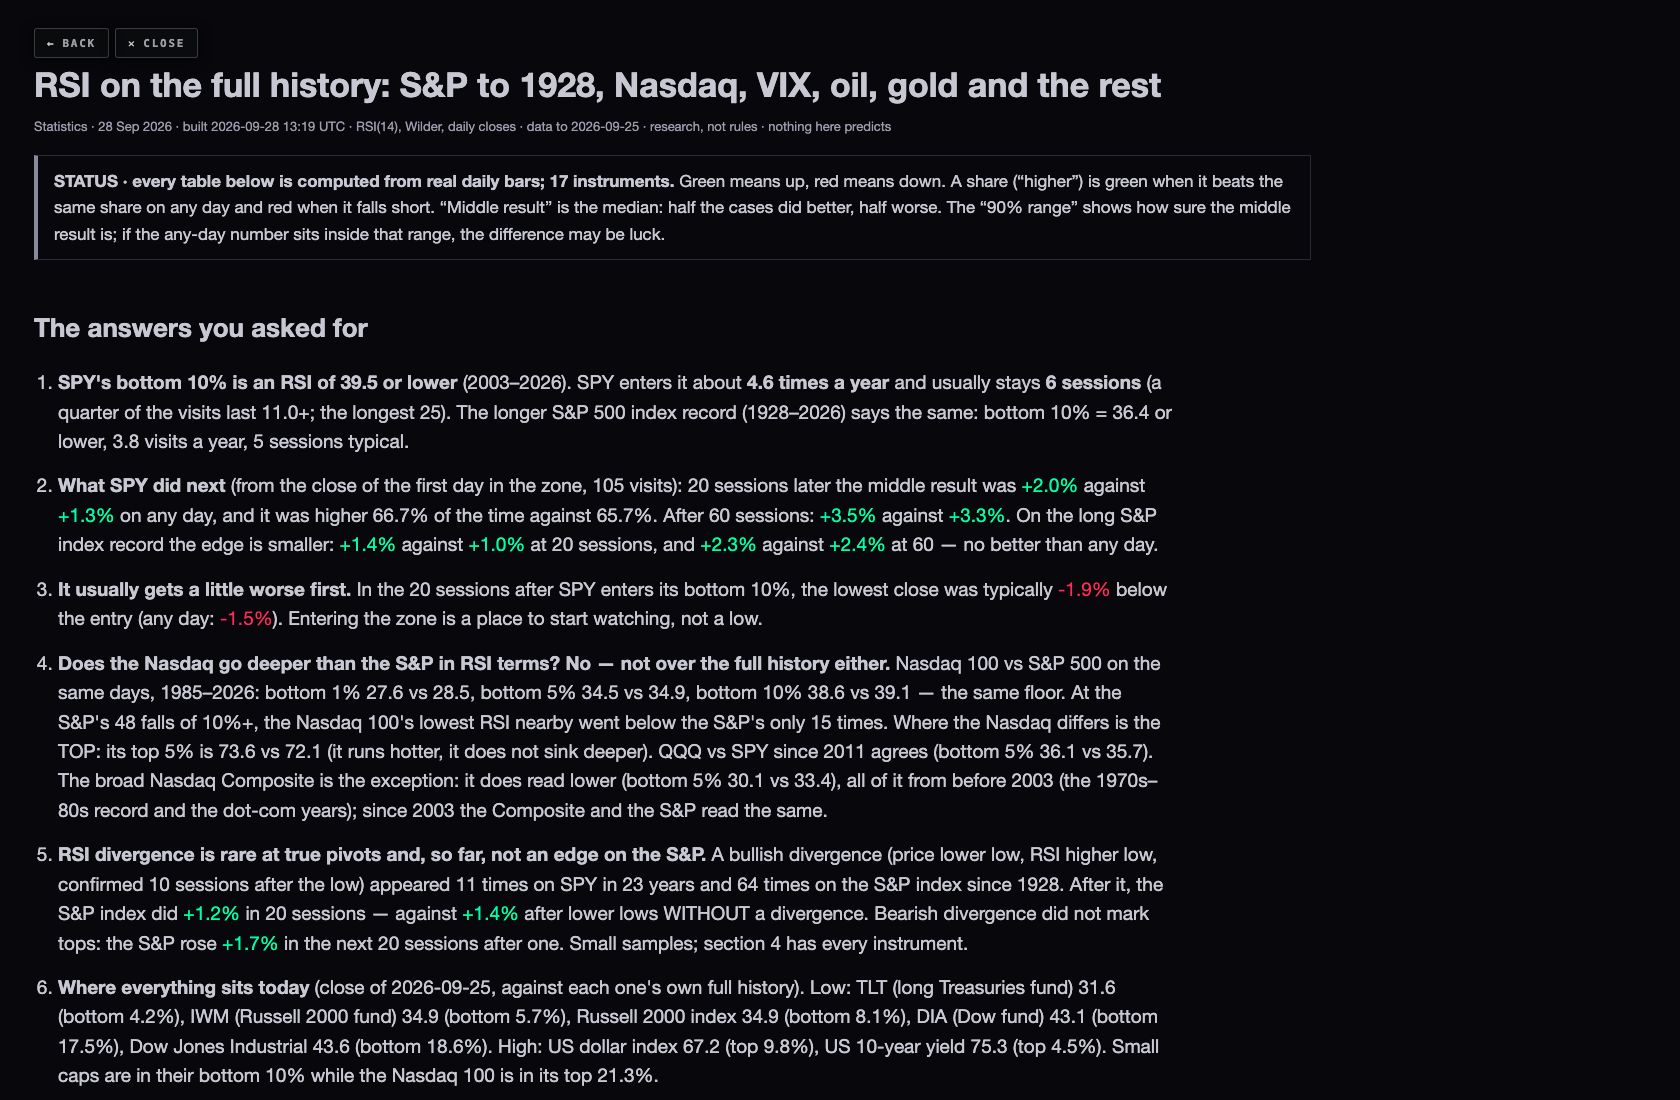
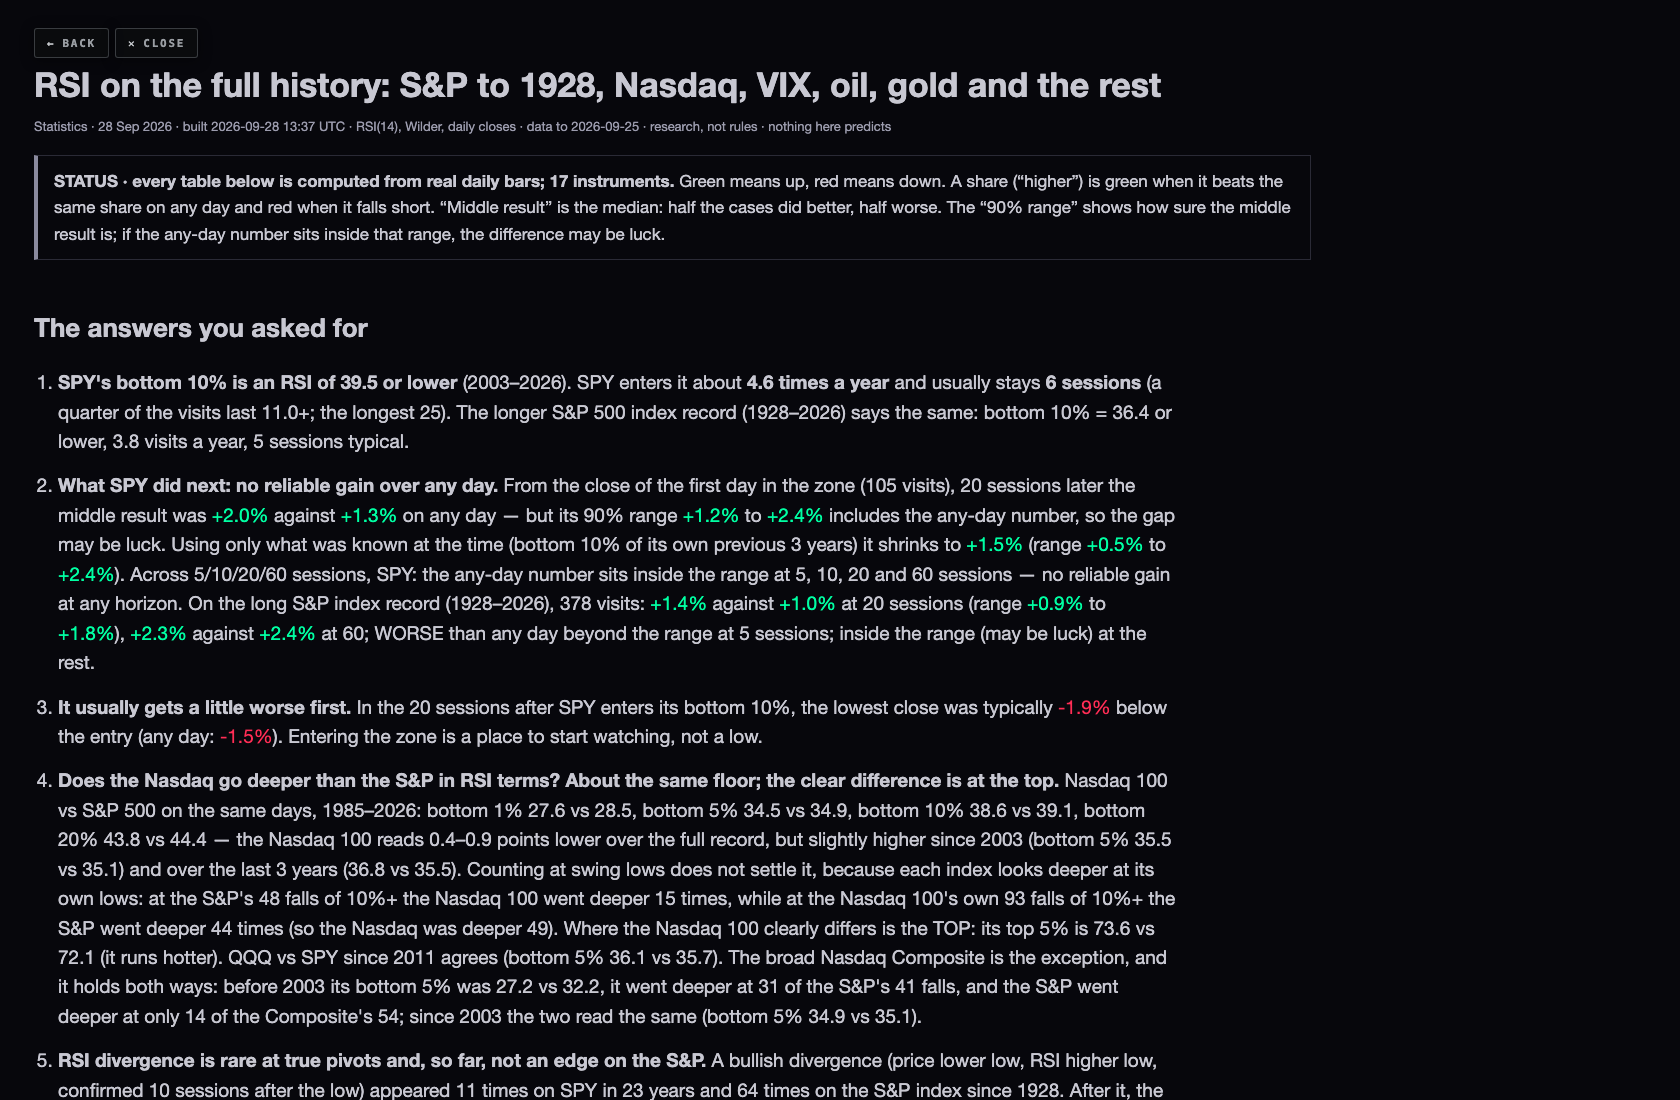
RSI full history: shorter lows-table headers so both side-by-side tables fit at 1680; review before/after screenshots (answers, Nasdaq lows both ways, Composite split, no-hindsight ranges, phone)

Changed region(s): [[0.031, 0.4327, 0.7119, 1.0]]

diff --git a/deliverables/20260928/rsi-full-history/index.html b/deliverables/20260928/rsi-full-history/index.html
@@ -87,7 +87,7 @@ code{font:14px ui-monospace,Menlo,monospace;color:#BEBECE}
 <tr><td class="nm">S&amp;P 500 index</td><td>28.5</td><td>35.1</td><td>39.3</td><td>44.8</td><td>56.2</td><td>64.7</td><td>68.5</td><td>71.3</td><td>76.7</td></tr>
 <tr><td class="nm">Nasdaq Composite</td><td class="up">28.8</td><td class="dn">34.9</td><td class="dn">38.9</td><td class="dn">44.3</td><td class="dn">55.6</td><td class="up">65.4</td><td class="up">69.4</td><td class="up">72.1</td><td class="up">77.0</td></tr></tbody></table></div>
 <p class="q">Nasdaq Composite lower than S&amp;P 500 index on 50.2% of all shared days. Measured both ways, because picking one side's extremes makes that side look deeper almost by construction: on the days S&amp;P 500 index sat in its own bottom 10%, Nasdaq Composite was lower on 41.0%; on the days Nasdaq Composite sat in its own bottom 10%, S&amp;P 500 index was lower on 36.2%. At S&amp;P 500 index's swing lows of 10%+ (27), Nasdaq Composite's lowest RSI within 10 sessions went below S&amp;P 500 index's 10 times; at Nasdaq Composite's own swing lows of 10%+ (41), S&amp;P 500 index went below Nasdaq Composite 21 times. The every-day percentile rows above are the fair comparison. Colour on the second row: red = the Nasdaq Composite value is lower (goes deeper), green = higher.</p>
-<div class="two"><div><h3>The S&P's latest falls of 10%+ (Nasdaq 100 deeper at 15 of all 48)</h3><div class="scroll"><table><thead><tr><th>S&P swing low</th><th>fall</th><th>S&P lowest RSI (±10 sessions)</th><th>Nasdaq 100 lowest RSI (±10 sessions)</th><th>deeper</th></tr></thead><tbody><tr><td>2025-04-07</td><td><span class="dn">-16.4%</span></td><td>21.4</td><td>23.1</td><td>S&P</td></tr><tr><td>2025-03-13</td><td><span class="dn">-10.5%</span></td><td>27.9</td><td>28.4</td><td>S&P</td></tr><tr><td>2022-10-13</td><td><span class="dn">-19.3%</span></td><td>28.5</td><td>29.4</td><td>S&P</td></tr><tr><td>2022-06-17</td><td><span class="dn">-12.9%</span></td><td>31.1</td><td>33.3</td><td>S&P</td></tr><tr><td>2022-05-20</td><td><span class="dn">-17.8%</span></td><td>31.5</td><td>32.3</td><td>S&P</td></tr><tr><td>2022-02-24</td><td><span class="dn">-14.6%</span></td><td>31.8</td><td>32.3</td><td>S&P</td></tr><tr><td>2020-09-24</td><td><span class="dn">-10.6%</span></td><td>37.0</td><td>40.9</td><td>S&P</td></tr><tr><td>2020-03-23</td><td><span class="dn">-35.4%</span></td><td>25.5</td><td>28.8</td><td>S&P</td></tr><tr><td>2018-12-26</td><td><span class="dn">-16.6%</span></td><td>19.2</td><td>25.7</td><td>S&P</td></tr><tr><td>2018-10-29</td><td><span class="dn">-11.5%</span></td><td>24.3</td><td>29.4</td><td>S&P</td></tr><tr><td>2018-02-09</td><td><span class="dn">-11.8%</span></td><td>28.1</td><td>32.5</td><td>S&P</td></tr><tr><td>2016-01-20</td><td><span class="dn">-12.9%</span></td><td>28.5</td><td>28.0</td><td>Nasdaq</td></tr><tr><td>2015-08-24</td><td><span class="dn">-12.5%</span></td><td>16.8</td><td>19.1</td><td>S&P</td></tr><tr><td>2012-06-04</td><td><span class="dn">-10.5%</span></td><td>23.2</td><td>22.0</td><td>Nasdaq</td></tr></tbody></table></div></div><div><h3>The Nasdaq 100's latest falls of 10%+ (S&P deeper at 44 of all 93)</h3><div class="scroll"><table><thead><tr><th>Nasdaq 100 swing low</th><th>fall</th><th>S&P lowest RSI (±10 sessions)</th><th>Nasdaq 100 lowest RSI (±10 sessions)</th><th>deeper</th></tr></thead><tbody><tr><td>2026-07-29</td><td><span class="dn">-11.3%</span></td><td>38.0</td><td>32.1</td><td>Nasdaq</td></tr><tr><td>2026-03-30</td><td><span class="dn">-12.7%</span></td><td>27.7</td><td>29.0</td><td>S&P</td></tr><tr><td>2025-04-07</td><td><span class="dn">-18.5%</span></td><td>21.4</td><td>23.1</td><td>S&P</td></tr><tr><td>2025-03-13</td><td><span class="dn">-13.8%</span></td><td>27.9</td><td>28.4</td><td>S&P</td></tr><tr><td>2024-08-05</td><td><span class="dn">-15.7%</span></td><td>30.6</td><td>30.4</td><td>Nasdaq</td></tr><tr><td>2022-12-28</td><td><span class="dn">-12.3%</span></td><td>39.1</td><td>33.6</td><td>Nasdaq</td></tr><tr><td>2022-10-13</td><td><span class="dn">-23.9%</span></td><td>28.5</td><td>29.4</td><td>S&P</td></tr><tr><td>2022-06-16</td><td><span class="dn">-14.4%</span></td><td>31.1</td><td>33.3</td><td>S&P</td></tr><tr><td>2022-05-20</td><td><span class="dn">-24.7%</span></td><td>31.5</td><td>32.3</td><td>S&P</td></tr><tr><td>2022-03-14</td><td><span class="dn">-21.6%</span></td><td>34.9</td><td>34.4</td><td>Nasdaq</td></tr><tr><td>2021-03-05</td><td><span class="dn">-12.0%</span></td><td>40.6</td><td>34.1</td><td>Nasdaq</td></tr><tr><td>2020-11-02</td><td><span class="dn">-10.2%</span></td><td>35.2</td><td>39.6</td><td>S&P</td></tr><tr><td>2020-09-21</td><td><span class="dn">-14.2%</span></td><td>37.0</td><td>40.9</td><td>S&P</td></tr><tr><td>2020-03-23</td><td><span class="dn">-30.4%</span></td><td>25.5</td><td>28.8</td><td>S&P</td></tr></tbody></table></div></div></div>
+<div class="two"><div><h3>The S&P's latest falls of 10%+ (Nasdaq 100 deeper at 15 of all 48)</h3><div class="scroll"><table><thead><tr><th>S&P swing low</th><th>fall</th><th>S&P RSI low (±10 days)</th><th>Nasdaq 100 RSI low (±10 days)</th><th>deeper</th></tr></thead><tbody><tr><td>2025-04-07</td><td><span class="dn">-16.4%</span></td><td>21.4</td><td>23.1</td><td>S&P</td></tr><tr><td>2025-03-13</td><td><span class="dn">-10.5%</span></td><td>27.9</td><td>28.4</td><td>S&P</td></tr><tr><td>2022-10-13</td><td><span class="dn">-19.3%</span></td><td>28.5</td><td>29.4</td><td>S&P</td></tr><tr><td>2022-06-17</td><td><span class="dn">-12.9%</span></td><td>31.1</td><td>33.3</td><td>S&P</td></tr><tr><td>2022-05-20</td><td><span class="dn">-17.8%</span></td><td>31.5</td><td>32.3</td><td>S&P</td></tr><tr><td>2022-02-24</td><td><span class="dn">-14.6%</span></td><td>31.8</td><td>32.3</td><td>S&P</td></tr><tr><td>2020-09-24</td><td><span class="dn">-10.6%</span></td><td>37.0</td><td>40.9</td><td>S&P</td></tr><tr><td>2020-03-23</td><td><span class="dn">-35.4%</span></td><td>25.5</td><td>28.8</td><td>S&P</td></tr><tr><td>2018-12-26</td><td><span class="dn">-16.6%</span></td><td>19.2</td><td>25.7</td><td>S&P</td></tr><tr><td>2018-10-29</td><td><span class="dn">-11.5%</span></td><td>24.3</td><td>29.4</td><td>S&P</td></tr><tr><td>2018-02-09</td><td><span class="dn">-11.8%</span></td><td>28.1</td><td>32.5</td><td>S&P</td></tr><tr><td>2016-01-20</td><td><span class="dn">-12.9%</span></td><td>28.5</td><td>28.0</td><td>Nasdaq</td></tr><tr><td>2015-08-24</td><td><span class="dn">-12.5%</span></td><td>16.8</td><td>19.1</td><td>S&P</td></tr><tr><td>2012-06-04</td><td><span class="dn">-10.5%</span></td><td>23.2</td><td>22.0</td><td>Nasdaq</td></tr></tbody></table></div></div><div><h3>The Nasdaq 100's latest falls of 10%+ (S&P deeper at 44 of all 93)</h3><div class="scroll"><table><thead><tr><th>Nasdaq 100 swing low</th><th>fall</th><th>S&P RSI low (±10 days)</th><th>Nasdaq 100 RSI low (±10 days)</th><th>deeper</th></tr></thead><tbody><tr><td>2026-07-29</td><td><span class="dn">-11.3%</span></td><td>38.0</td><td>32.1</td><td>Nasdaq</td></tr><tr><td>2026-03-30</td><td><span class="dn">-12.7%</span></td><td>27.7</td><td>29.0</td><td>S&P</td></tr><tr><td>2025-04-07</td><td><span class="dn">-18.5%</span></td><td>21.4</td><td>23.1</td><td>S&P</td></tr><tr><td>2025-03-13</td><td><span class="dn">-13.8%</span></td><td>27.9</td><td>28.4</td><td>S&P</td></tr><tr><td>2024-08-05</td><td><span class="dn">-15.7%</span></td><td>30.6</td><td>30.4</td><td>Nasdaq</td></tr><tr><td>2022-12-28</td><td><span class="dn">-12.3%</span></td><td>39.1</td><td>33.6</td><td>Nasdaq</td></tr><tr><td>2022-10-13</td><td><span class="dn">-23.9%</span></td><td>28.5</td><td>29.4</td><td>S&P</td></tr><tr><td>2022-06-16</td><td><span class="dn">-14.4%</span></td><td>31.1</td><td>33.3</td><td>S&P</td></tr><tr><td>2022-05-20</td><td><span class="dn">-24.7%</span></td><td>31.5</td><td>32.3</td><td>S&P</td></tr><tr><td>2022-03-14</td><td><span class="dn">-21.6%</span></td><td>34.9</td><td>34.4</td><td>Nasdaq</td></tr><tr><td>2021-03-05</td><td><span class="dn">-12.0%</span></td><td>40.6</td><td>34.1</td><td>Nasdaq</td></tr><tr><td>2020-11-02</td><td><span class="dn">-10.2%</span></td><td>35.2</td><td>39.6</td><td>S&P</td></tr><tr><td>2020-09-21</td><td><span class="dn">-14.2%</span></td><td>37.0</td><td>40.9</td><td>S&P</td></tr><tr><td>2020-03-23</td><td><span class="dn">-30.4%</span></td><td>25.5</td><td>28.8</td><td>S&P</td></tr></tbody></table></div></div></div>
 
 <h2>6 · Every instrument: chart and swing tables</h2>
 <p>Top: closing price (log scale), each day's segment green if it closed up and red if down. Bottom: RSI(14); the dashed green line is the bottom-10% line, the dashed red line the top-10% line (full history). Triangles mark the first day of each visit: ▲ green under the RSI = bottom 10%, ▼ red over it = top 10%. Rings on the price mark divergence pivots: green = bullish, red = bearish.</p>
